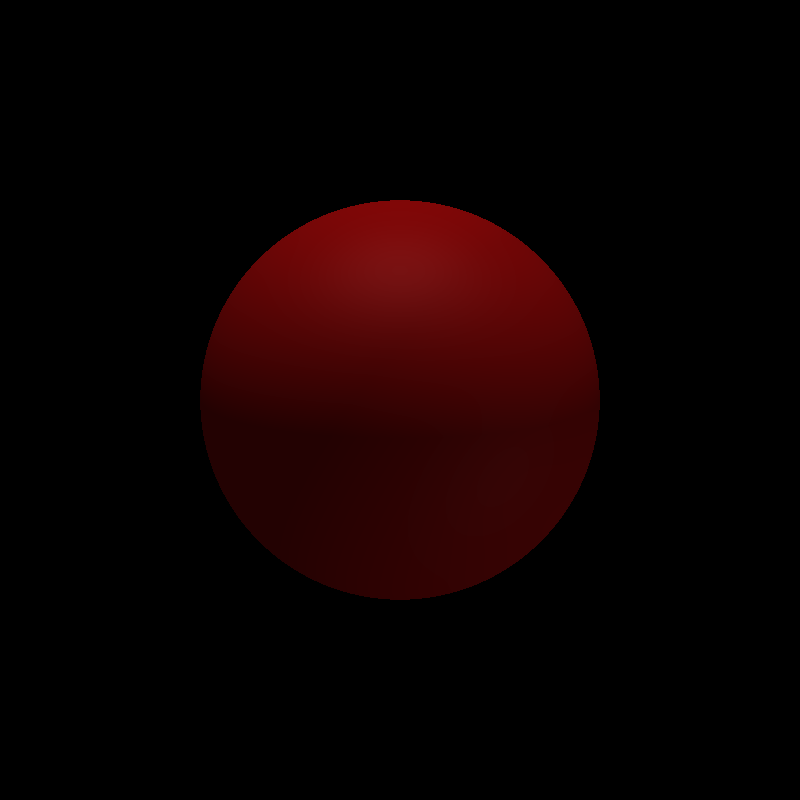
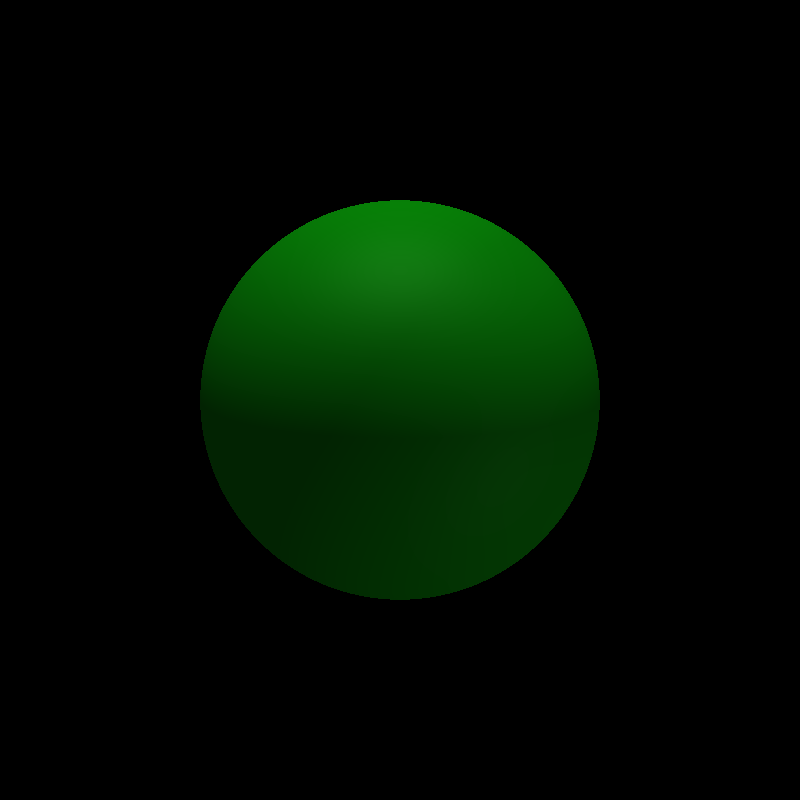
fixed green sphere

Changed region(s): [[0.25, 0.25, 0.75, 0.75]]

diff --git a/src/phong/Phong.java b/src/phong/Phong.java
@@ -219,13 +219,13 @@ public class Phong {
     public static void main(String[] args) throws IOException {
         String[] presetNames = {
                 "src/phong/presets/Default Gray.json",
+                "src/phong/presets/Matte red plastic.json",
                 "src/phong/presets/White gypsum plaster.json",
                 "src/phong/presets/Pink gypsum plaster.json",
                 "src/phong/presets/Cyan gypsum plaster.json",
                 "src/phong/presets/Glossy white plastic.json",
                 "src/phong/presets/Matte green plastic.json",
-                "src/phong/presets/Glossy white plastic 3 lights.json",
-                "src/phong/presets/Matte red plastic.json"
+                "src/phong/presets/Glossy white plastic 3 lights.json"
         };
 
         int width = 800;
